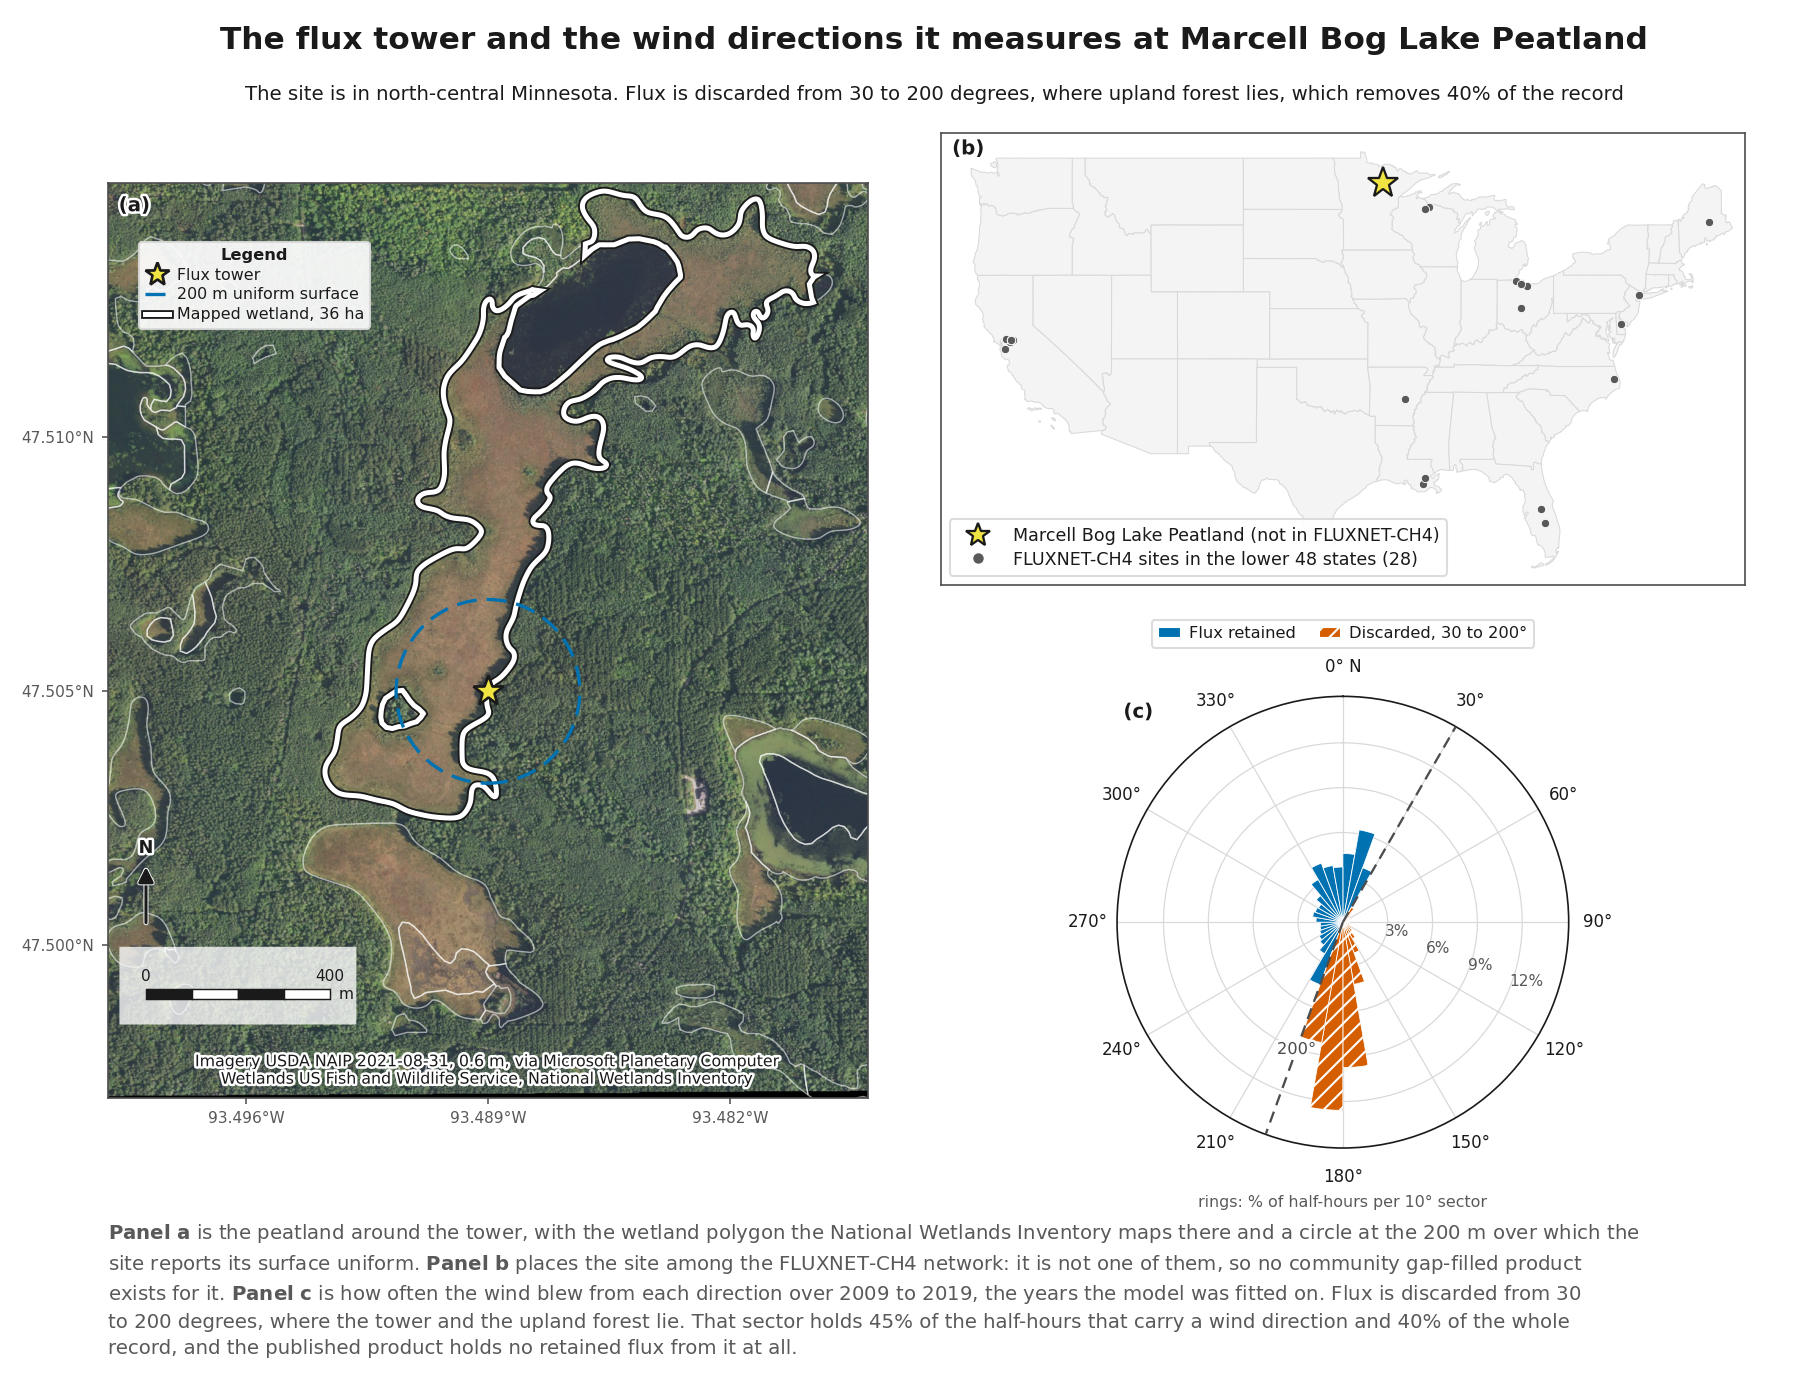
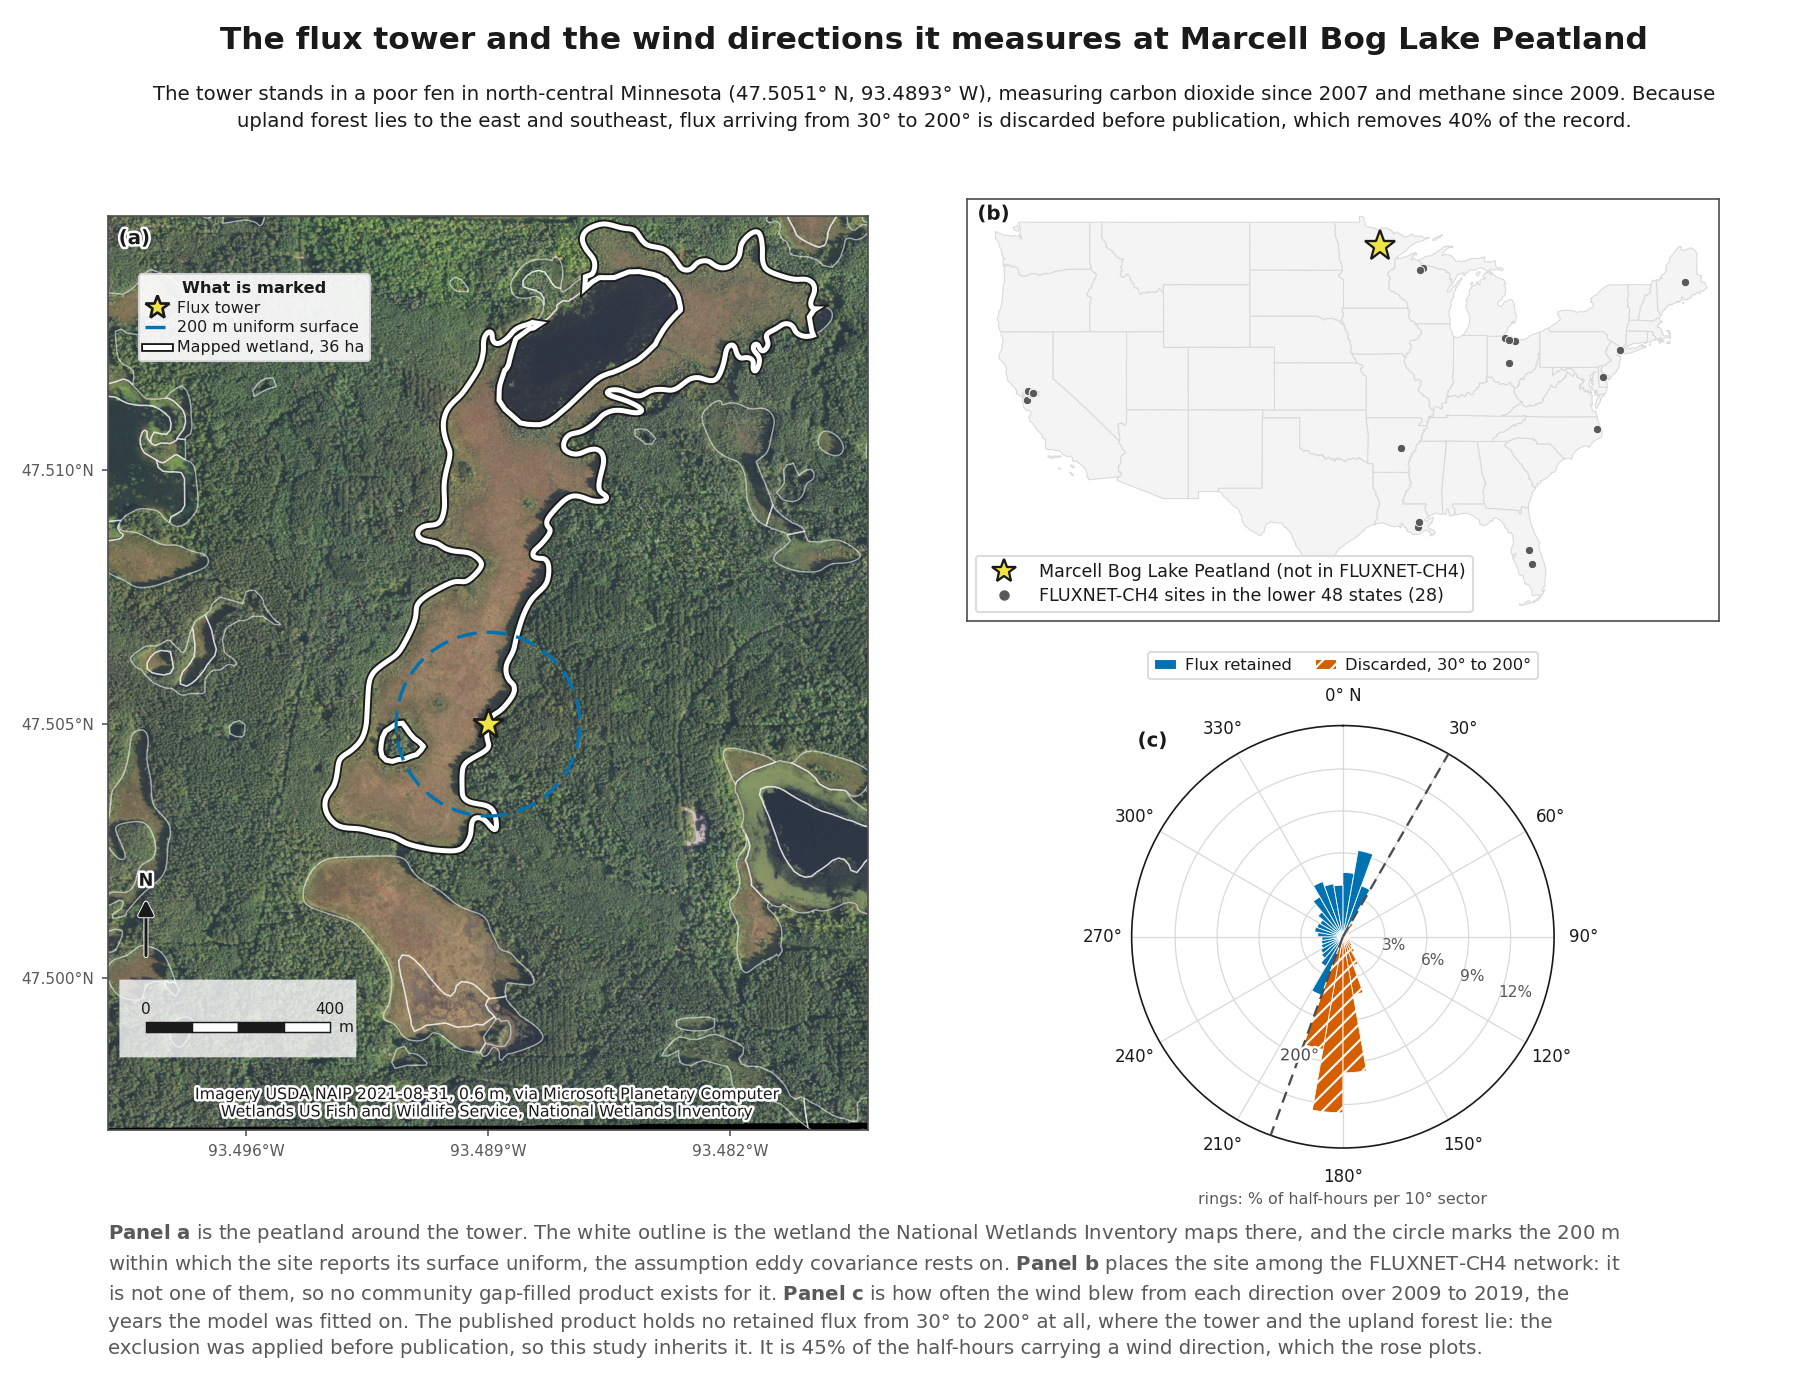
Revise the site figure: coordinates, sector form, and panel b clearance
The subtitle now states where the tower is, what it measures and since when,
and why the sector is excluded, in place of the bare fact that the site is in
Minnesota. Coordinates are the BADM values rather than the rounded constants
the projection uses; the discrepancy is 22 m, invisible here, and the comment
at the constants now records that they are the drawing origin and the BADM is
the citable location.

"To the east and southeast" is measured, not inferred from the sector bounds.
Ray-testing the wetland polygons outward from the tower on sixteen points
finds no wetland from NE through SSE. Due east is as devoid of wetland as
southeast, and the sector is wider than the upland block on the clockwise
side, which is why the subtitle states the reason panel a shows rather than
claiming it is the only one.

The sector reads 30 degrees to 200 degrees everywhere it appears. The panel a
legend heading names what it lists. The description's closing leads with the
exclusion and states plainly that the study inherits it.

Panel a holds an equal aspect and sits lower than the rectangle it is given,
which left panel b alone against the subtitle at 29 px against panel a's 79.
A 36 px inset on the drawing area clears it.

The glacial-origin clause was cut. The Forest Service describes the
experimental forest's peatlands as ice-block depressions as a group, but
whether this basin is one cannot be established from the repository, and a
[…]

diff --git a/src/study/sitemap.py b/src/study/sitemap.py
@@ -43,6 +43,11 @@ BOUNDARY_CREDIT = "State outlines US Census Bureau, 2022"
 #: Homogeneous fetch around the tower, meters, from the product's own metadata.
 SURFACE_HOMOGENEITY_M = 200.0
 
+#: Room taken off the top of the drawing area. Panel a holds an equal aspect
+#: and so sits lower than the rectangle it is given, which left panel b as the
+#: only thing meeting the subtitle, 29 px below it against panel a's 79.
+SUBTITLE_CLEARANCE_PX = 36
+
 #: Wind sectors the site discards, degrees clockwise from north.
 EXCLUDED_SECTOR = (30.0, 200.0)
 
@@ -64,20 +69,24 @@ SITE_MARKER = dict(marker="*", markersize=15, markerfacecolor=ps.SITE,
 SITEMAP_TEXT = ps.FigureText(
     title="The flux tower and the wind directions it measures at Marcell Bog Lake Peatland",
     subtitle=(
-        "The site is in north-central Minnesota. Flux is discarded from 30 to 200 "
-        "degrees, where upland forest lies, which removes 40% of the record"
+        "The tower stands in a poor fen in north-central Minnesota (47.5051\u00b0 N, "
+        "93.4893\u00b0 W), measuring carbon dioxide since 2007 and methane since 2009. "
+        "Because upland forest lies to the east and southeast, flux arriving from "
+        "30\u00b0 to 200\u00b0 is discarded before publication, which removes 40% of "
+        "the record."
     ),
     description=(
-        "Panel a is the peatland around the tower, with the wetland polygon the "
-        "National Wetlands Inventory maps there and a circle at the 200 m over which "
-        "the site reports its surface uniform. Panel b places the site among the "
-        "FLUXNET-CH4 network: it is not one of them, so no community gap-filled "
-        "product exists for it. Panel c is how often the wind blew from each "
-        "direction over 2009 to 2019, the years the model was fitted on. Flux is "
-        "discarded from 30 to 200 degrees, where the tower and the upland forest "
-        "lie. That sector holds 45% of the half-hours that carry a wind direction "
-        "and 40% of the whole record, and the published product holds no retained "
-        "flux from it at all."
+        "Panel a is the peatland around the tower. The white outline is the wetland "
+        "the National Wetlands Inventory maps there, and the circle marks the 200 m "
+        "within which the site reports its surface uniform, the assumption eddy "
+        "covariance rests on. Panel b places the site among the FLUXNET-CH4 network: "
+        "it is not one of them, so no community gap-filled product exists for it. "
+        "Panel c is how often the wind blew from each direction over 2009 to 2019, "
+        "the years the model was fitted on. The published product holds no retained "
+        "flux from 30\u00b0 to 200\u00b0 at all, where the tower and the upland "
+        "forest lie: the exclusion was applied before publication, so this study "
+        "inherits it. It is 45% of the half-hours carrying a wind direction, "
+        "which the rose plots."
     ),
     emphasize=("Panel a", "Panel b", "Panel c"),
 )
@@ -219,7 +228,7 @@ def draw_site(ax, image, wetlands: dict, origin: tuple[float, float]) -> None:
     ]
     key = ps.legend(ax, handles=handles, labels=[h.get_label() for h in handles],
                     loc="upper left", fontsize=7.6, borderpad=0.4, labelspacing=0.3,
-                    handlelength=1.5, handletextpad=0.5, title="Legend",
+                    handlelength=1.5, handletextpad=0.5, title="What is marked",
                     bbox_to_anchor=(0.03, 0.945))
     key.get_title().set_fontsize(7.8)
     key.get_title().set_fontweight("bold")
@@ -325,7 +334,7 @@ def draw_sector(ax, shares: pd.DataFrame) -> None:
     handles = [
         Patch(facecolor=ps.INSIDE, edgecolor="white", label="Flux retained"),
         Patch(facecolor=ps.OUTSIDE, edgecolor="white", hatch=ps.OUTSIDE_HATCH,
-              label="Discarded, 30 to 200\u00b0"),
+              label="Discarded, 30\u00b0 to 200\u00b0"),
     ]
     ps.legend(ax, handles=handles, labels=[h.get_label() for h in handles],
               loc="lower center", fontsize=7.8, borderpad=0.38, labelspacing=0.3,
@@ -338,6 +347,9 @@ def site_overview(image, wetlands: dict, states: dict, sites: pd.DataFrame,
     """The three panels together, sharing the set's title and description blocks."""
     fig, (left, bottom, width, height) = ps.canvas_area(SITEMAP_TEXT, size="tall")
     origin = (site.LONGITUDE, site.LATITUDE)
+    # Panel a is aspect-constrained, so it sits lower than its allocation and
+    # panel b meets the subtitle alone. Insetting the block clears it.
+    height -= SUBTITLE_CLEARANCE_PX / ps.SIZES["tall"][1]
 
     gap = 0.035 * width
     left_w = 0.46 * width

diff --git a/src/ingest/site.py b/src/ingest/site.py
@@ -15,6 +15,15 @@ from __future__ import annotations
 
 SITE_ID = "US-MBP"
 SITE_NAME = "Marcell Bog Lake Peatland"
+#: Rounded from the values the product's own metadata carries, which are
+#: LOCATION_LAT 47.5051 and LOCATION_LONG -93.4893 in the BADM file. The BADM is
+#: authoritative; these are the abbreviation, and the difference is about 11 m of
+#: latitude and 22 m of longitude. That is invisible on a two-kilometre panel, so
+#: nothing drawn from these is wrong, but it is a second source of truth for one
+#: number. Anything quoting coordinates to a reader should take the BADM values,
+#: as the site figure's subtitle does; these stay rounded only because widening
+#: them would change every figure that projects from them for no gain a reader
+#: could see.
 LATITUDE = 47.505
 LONGITUDE = -93.489
 LOCATION = "USDA Forest Service Marcell Experimental Forest, Minnesota, USA"

diff --git a/notes/study.md b/notes/study.md
@@ -1093,6 +1093,65 @@ edge is 47.497 rather than the 47.495 first wanted because the quarter-quad
 holding the tower begins there, and a second scene for 220 m would have added a
 seam and a second acquisition to attribute.
 
+### The peatland's geomorphology, and what the figure may say about it
+
+The Marcell Experimental Forest's peatlands sit in ice-block depressions left by
+the retreating Wisconsin ice sheet, and the Forest Service describes the forest's
+six research watersheds that way as a group. Whether that origin applies to this
+particular basin cannot be established from anything in this repository or from
+the site's own metadata. The Forest Service's own discriminator between the
+forest's bogs and its fens is peat depth, and this site's peat depth appears
+nowhere in the repository: not in the BADM, not in `geodata/`, not in any
+derived table. So the general statement is well sourced and the specific one is
+an inference the repository cannot carry, which is why the site figure's
+description says nothing about glacial origin.
+
+The rule this settled, in the form it should be kept:
+
+> A figure carries only what it draws or derives from what it draws.
+
+That is stricter than "no uncited claims" and easier to apply. It admits the
+subtitle's coordinates, which are the tower the star marks. It admits the 40%
+exclusion, which panel c draws. It excludes an ice-block origin, which no layer
+on the figure shows, no matter how well cited the claim would be in prose. It is
+also why the figure carries no citation: a figure that only says what it draws
+has nothing to cite.
+
+### The sector is wider than the upland, and has two stated reasons
+
+The site figure's subtitle attributes the excluded sector to upland forest. Two
+things qualify that, both verified here rather than assumed.
+
+Ray-testing the NWI polygons outward from the tower on sixteen compass points,
+at 5 m sampling to 400 m, the directions with no wetland at all are NE through
+SSE, about 45° to 160°. Due east is as devoid of wetland as southeast. The
+subtitle therefore reads "to the east and southeast"; "to the southeast" alone
+would be a third of the upland block.
+
+The excluded sector is wider than that block on the clockwise side. SSW, inside
+the sector, carries 260 m of continuous wetland from the tower, and S carries 55
+m. The sector's definition in `validation/base_v55.py` gives two reasons, tower
+flow distortion and upland forest in the flux footprint, and the geometry is
+consistent with that: the upland accounts for the sector's middle, not its
+edges. "Because upland forest lies to the east and southeast" states the reason
+that is visible on panel a and does not claim it is the only one.
+
+### Why the tower coordinates are rounded in two places
+
+`ingest/site.py` holds 47.505 and −93.489. The BADM holds 47.5051 and −93.4893.
+The difference is about 11 m north-south and 22 m east-west, invisible on a
+two-kilometre panel, so nothing projected from the constants is wrong. But it is
+a second source of truth for one number, and the site figure's subtitle quotes
+the BADM values to a reader, so the two now differ in the same figure.
+
+They should be left rounded. Widening them changes the projection origin of
+every panel that uses them, which moves the star, the 200 m circle and the
+imagery window by a fraction of a pixel each, with no gain a reader could see,
+and requires re-checking every layout that was measured against the current
+extent. The constants are the drawing origin; the BADM is the citable location.
+The comment at the definition now says so, which is the fix that was actually
+needed: the risk was never the 22 m, it was that the discrepancy was silent.
+
 ### Why the wind rose stops at 2019
 
 **The rose is restricted to 2009 to 2019**, the months the model was fitted on,

diff --git a/figures/README_fragments.md b/figures/README_fragments.md
@@ -10,9 +10,9 @@ Reconstruction means estimating methane emissions for years before measurements 
 
 ![The flux tower and the wind directions it measures at Marcell Bog Lake Peatland](figures/site_overview.png)
 
-**The site is in north-central Minnesota. Flux is discarded from 30 to 200 degrees, where upland forest lies, which removes 40% of the record**
+**The tower stands in a poor fen in north-central Minnesota (47.5051° N, 93.4893° W), measuring carbon dioxide since 2007 and methane since 2009. Because upland forest lies to the east and southeast, flux arriving from 30° to 200° is discarded before publication, which removes 40% of the record.**
 
-Panel a is the peatland around the tower, with the wetland polygon the National Wetlands Inventory maps there and a circle at the 200 m over which the site reports its surface uniform. Panel b places the site among the FLUXNET-CH4 network: it is not one of them, so no community gap-filled product exists for it. Panel c is how often the wind blew from each direction over 2009 to 2019, the years the model was fitted on. Flux is discarded from 30 to 200 degrees, where the tower and the upland forest lie. That sector holds 45% of the half-hours that carry a wind direction and 40% of the whole record, and the published product holds no retained flux from it at all.
+Panel a is the peatland around the tower. The white outline is the wetland the National Wetlands Inventory maps there, and the circle marks the 200 m within which the site reports its surface uniform, the assumption eddy covariance rests on. Panel b places the site among the FLUXNET-CH4 network: it is not one of them, so no community gap-filled product exists for it. Panel c is how often the wind blew from each direction over 2009 to 2019, the years the model was fitted on. The published product holds no retained flux from 30° to 200° at all, where the tower and the upland forest lie: the exclusion was applied before publication, so this study inherits it. It is 45% of the half-hours carrying a wind direction, which the rose plots.
 
 ### Reconstructed methane emission at Marcell Bog Lake Peatland (1990 to 2008)
 
